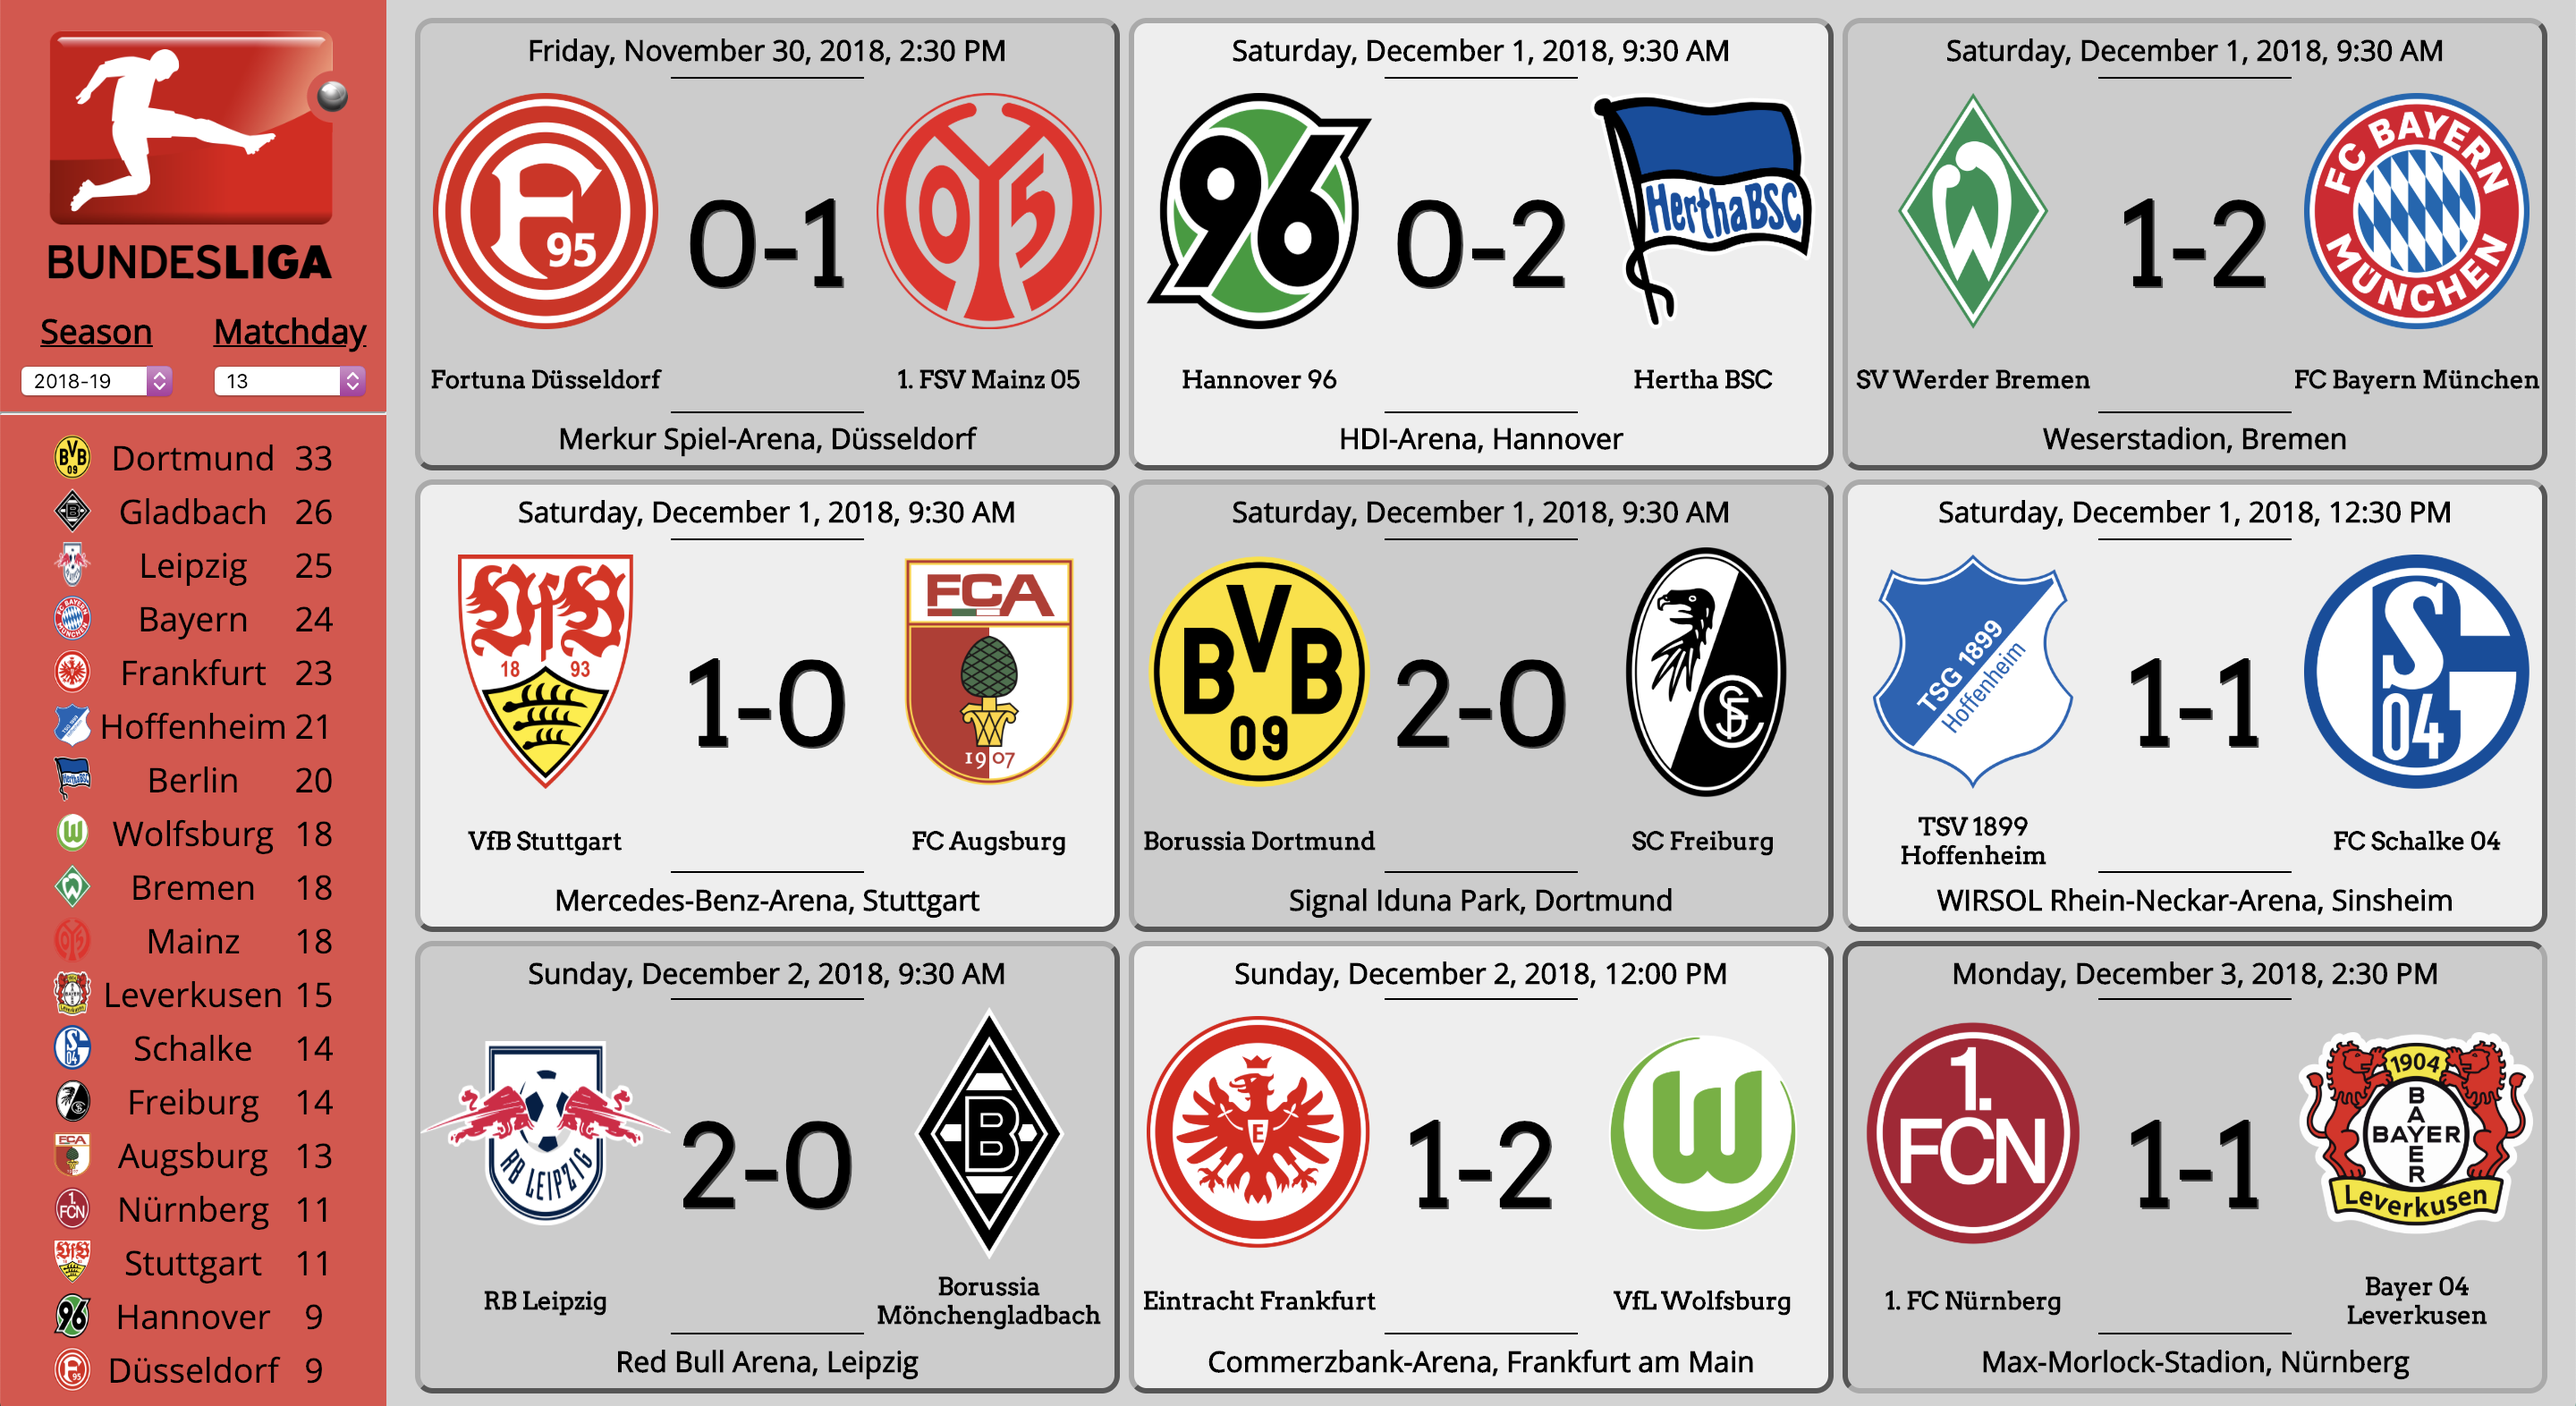
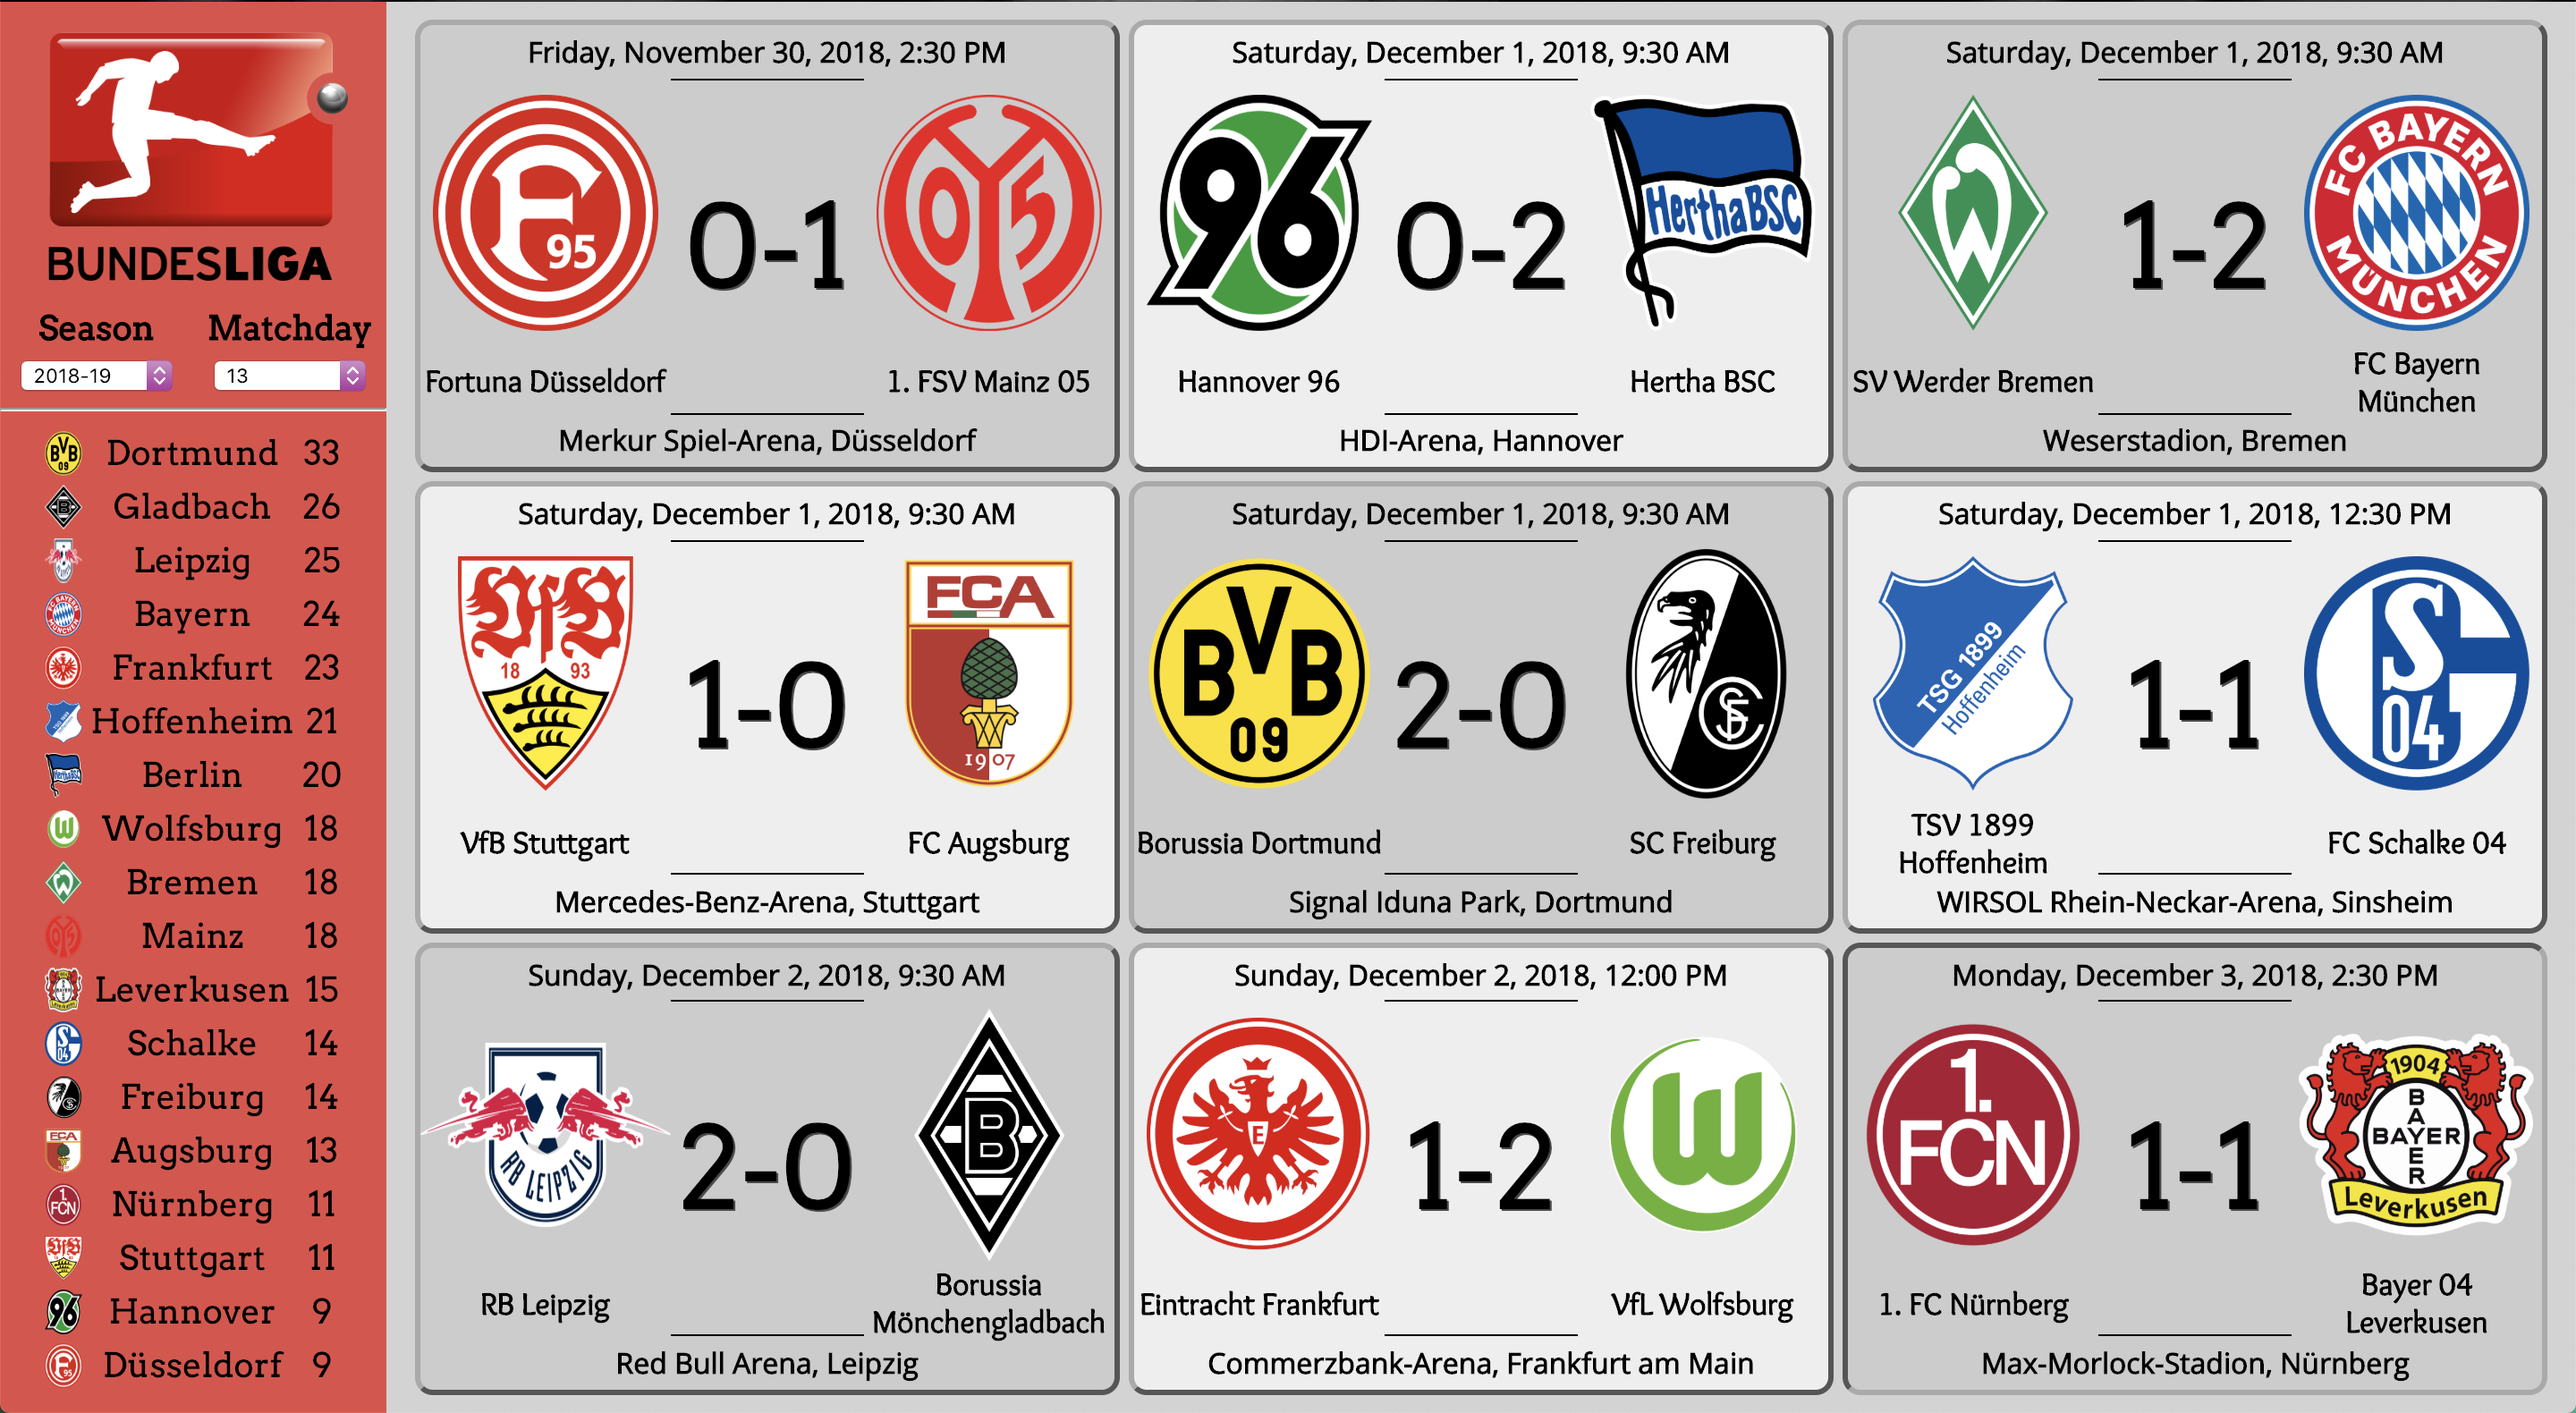
changed fonts, updated screenshot

diff --git a/public/main.css b/public/main.css
@@ -7,7 +7,6 @@ body {
 h3 {
   display: inline;
   margin: 0 auto;
-  text-decoration: underline;
 }
 
 option {
@@ -101,8 +100,8 @@ td:nth-child(1) {
 
 .team-name {
   align-self: center;
-  font-family: 'Arvo', serif;
-  font-size: 0.85em;
+  font-family: 'Overlock', cursive;
+  font-size: 1.1em;
   font-weight: bold;
   margin: 0;
   text-align: center;
@@ -213,7 +212,7 @@ td:nth-child(1) {
 
 #sidebar {
   background-color: rgba(216, 20, 20, 0.808);
-  font-family: 'Open Sans', sans-serif;
+  font-family: 'Arvo', serif;
   height: 100vh;
 }
 

diff --git a/public/index.html b/public/index.html
@@ -7,7 +7,7 @@
     <meta name="viewport" content="width=device-width, initial-scale=1" />
     <link rel="stylesheet" type="text/css" media="screen" href="main.css" />
     <link
-      href="https://fonts.googleapis.com/css?family=Arvo|Open+Sans"
+      href="https://fonts.googleapis.com/css?family=Arvo|Open+Sans|Overlock"
       rel="stylesheet"
     />
     <script src="bundle.js" defer></script>
